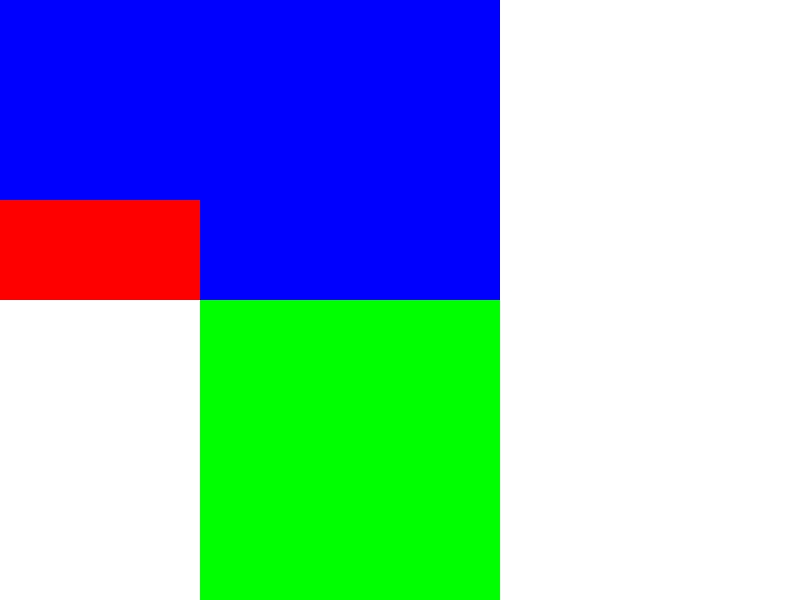
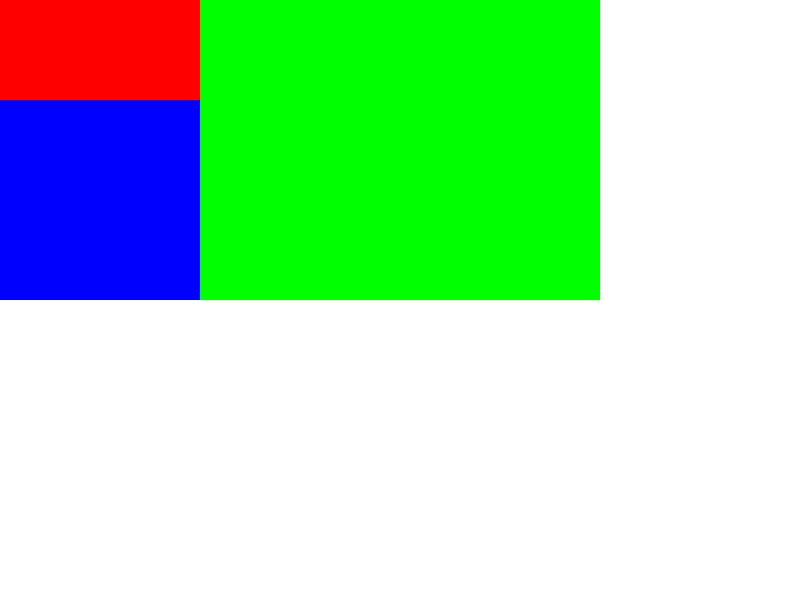
commit

diff --git a/week11/demo.1.html b/week11/demo.1.html
@@ -1,0 +1,94 @@
+<!DOCTYPE html>
+<html lang="en">
+<head>
+    <meta charset="UTF-8">
+    <meta name="viewport" content="width=device-width, initial-scale=1.0">
+    <meta http-equiv="X-UA-Compatible" content="ie=edge">
+    <title>Document</title>
+    <style>
+        #app{
+            font-size: 0;
+            width: 500px;
+            border-left: 1px solid #ddd;
+            border-bottom: 1px solid #ddd;
+        }
+        .ceil{
+            display: inline-block;
+            width: 5px;
+            height: 5px;
+            box-sizing: border-box;
+            border: 1px solid #ddd;
+            border-left: 0;
+            border-bottom: 0;
+            margin: 0;
+        }
+    </style>
+</head>
+<body>
+    <div id="app"></div>
+    <button onclick="localStorage.patten = JSON.stringify(patten)">save</button>
+    <script>
+        
+        let patten = localStorage.patten ? JSON.parse(localStorage.patten) : new Array(10000).fill(0)
+        let app = document.getElementById('app')
+        let mouse = false
+        let clear = false
+
+        for (let i = 0; i < 100; i++) {
+            for (let j = 0; j < 100; j++) {
+                let span = document.createElement('span')
+                span.classList.add('ceil')
+                if (patten[i * 100 + j]) {
+                    span.style.backgroundColor = 'black'
+                }
+                app.appendChild(span)
+                span.addEventListener('mousemove', function(e) {
+                    if (mouse) {
+                        if (clear) {
+                            e.target.style.backgroundColor = ''
+                            patten[i * 100 + j] = 0
+                        } else {
+                            e.target.style.backgroundColor = 'black'
+                            patten[i * 100 + j] = 1
+                        }
+                    }
+                })
+            }
+        }
+
+        function findPath(patten, start, end) {
+            let queue = [start]
+            let map = patten.slice()
+            
+            function inster([x, y]) {
+                if (x < 0 || x > 100) return
+                if (y < 0 || y > 100) return
+                if (map[[y * 100 + x]] !== 0) return
+
+                app.children[y * 100 + x].style.backgroundColor = "greenlight"
+                map[[y * 100 + x]] = 2
+                queue.push([x, y])
+            }
+            // 如何进行循环
+            // 如何进行队列
+            // 如何插入坐标形成map
+
+            while (queue.length) {
+                // 拿出队列的值
+                // 判断是否是结束位置
+
+                // 执行不同方向的inster
+            }
+
+        }
+
+        document.addEventListener('mousedown', (e) => {
+            mouse = true
+            clear = e.which === 3
+        })
+        document.addEventListener('mouseup', () => mouse = false)
+        // 禁用右键菜单
+        document.addEventListener('contextmenu', e => e.preventDefault())
+    </script>
+</body>
+</html>

diff --git a/week06/10-render/render.js b/week06/10-render/render.js
@@ -2,15 +2,15 @@ const images = require('images')
 
 function render(viewport, element) {
     if (element.style) {
-        var img = images(element.style.width, element.style.height)
-        console.log("width:", element.style.width, 'height:',element.style.height)
+        var img = images(Number(element.style.width) || 0, Number(element.style.height) || 0)
         if (element.style['background-color']) {
+            console.log("width:", element.style.width, 'height:',element.style.height)
             let color = element.style['background-color'] || "rgb(0,0,0)"
             color.match(/rgb\((\d+),(\d+),(\d+)\)/)
             console.log("color:", RegExp.$1, RegExp.$2, RegExp.$3)
             img.fill(Number(RegExp.$1), Number(RegExp.$2), Number(RegExp.$3), 1)
             // img.fill(255,0,0, 1)
-            console.log("left:", element.style.left, element.style.right)
+            console.log("left:", element.style.left || 0, element.style.top || 0)
             viewport.draw(img, element.style.left || 0, element.style.top || 0)
         }
     }

diff --git a/week06/10-render/client.js b/week06/10-render/client.js
@@ -253,11 +253,20 @@ void async function() {
     })
     let data = await request.send()
     let dom = parser.parseHTML(data.body)
-    let viewport = images(800, 600)
-    viewport.fill(255, 255, 255, 1)
+    let viewport = images(800, 800)
+    viewport.fill(255, 255, 255, 0.1)
+    // var img = images(600, 300)
+    // img.fill(0, 0, 255, 1)
+    // viewport.draw(img, 0, 0)
+    // var img = images(200, 100)
+    // img.fill(255, 0, 0, 1)
+    // viewport.draw(img, 0, 0)
+    // var img = images(400, 300)
+    // img.fill(0, 255, 0, 1)
+    // viewport.draw(img, 200, 0)
     render(viewport, dom[0])
     viewport.save('viewprot.jpg')
-    console.log(dom)
+    // console.log(dom)
 }()
 
 

diff --git a/week05/demo/client.js b/week05/demo/client.js
@@ -221,7 +221,7 @@ ${this.bodyText}`
                 })
             }
             connection.on('data', (data) => {
-                console.log(data.toString())
+                // console.log(data.toString())
                 parse.receive(data.toString())
                 if (parse.isFinished) {
                     resolve(parse.response);

diff --git a/week06/10-render/layout.js b/week06/10-render/layout.js
@@ -336,6 +336,6 @@ function layout (element) {
         crossBase += crossSign * (lineCrossSize + step)
     })
 
-    console.log(element)
+    // console.log(element)
 }
 module.exports = layout
